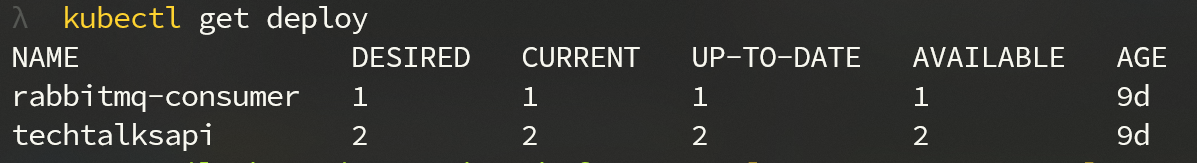
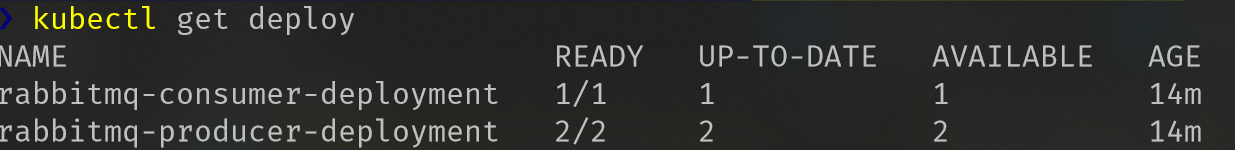
Updated README with newer images based on changes to producer and consumer

diff --git a/README.md b/README.md
@@ -133,6 +133,14 @@ Execute the `deployAutoScaler.ps1` powershell script.
 
 ```
 
+If you do not wish to run the individual PowerShell scripts, you can run one single script which will deploy all the necessary things by running the above scripts in correct order.
+
+```Powershell
+
+.\deployAll.ps1
+
+```
+
 ### 2.6 Get list of all the services deployed in the cluster
 
 We will need to know the service name for RabbitMQ to be able to do port forwarding to the RabbitMQ management UI and also the public IP assigned to the TechTalks producer service which will be used to generate the messages onto RabbitmQ queue.
@@ -147,7 +155,7 @@ kubectl get svc
 
 As we can see above, RabbitMQ service is available within the Kubernetes cluster and it exposes `4369`, `5672`, `25672` and `15672` ports. We will be using `15672` port to map to a local port.
 
-Also note the public `LoadBalancer` IP for the techtalksapi service. In this case the IP is **`13.67.52.226`**.
+Also note the public `LoadBalancer` IP for the techtalksapi service. In this case the IP is **`52.139.237.252`**.
 **Note:** This IP will be different when the services are redeployed on a different Kubernetes cluster.
 
 ### 2.7 Watch for deployments
@@ -186,33 +194,37 @@ Login to the management UI using credentials as `user` and `PASSWORD`. Remember 
 
 I am using [Postman](https://www.getpostman.com/) to submit a POST request to the API which generates 1000 messages onto a RabbitMQ queue named `hello`. You can use any other command line tool like CURL to submit a GET request.
 
-Use the `EXTERNAL-IP -13.67.52.226` with port `8080` to submit a GET request to the API. http://13.67.52.226:8080/api/TechTalks/Generate?numberOfMessages=200
+Use the `EXTERNAL-IP -52.139.237.252` with port `8080` to submit a GET request to the API. http://52.139.237.252:8080/api/TechTalks/Generate?numberOfMessages=2000
 
-Make sure to set the method to `POST` and add the header with key as `Content-Type` and value as `application/json`. Also specify the body with a random integer as shown below.
+![postman success](/images/postman-get-request.png)
 
-![postman header](/images/postman-header.png)
+Note that we are setting the number of messages to be produced by Producer as 2000 in this case. You can change the number to any other integer value.
 
-![postman body](/images/postman-body.png)
-
-After building the POST query, hit the blue `Send` button on the top right. If everything goes fine, you should receive a `200 OK` as status code.
+After building the GET query, hit the blue `Send` button on the top right. If everything goes fine, you should receive a `200 OK` as status code.
 
 ![postman success](/images/postman-success.png)
 
-The Producer will produce 1000 messages on the queue named `hello`. The consumer is configured to process `10` messages in a batch. The consumer also simulates a long running process by sleeping for `2 seconds`.
+The Producer will produce 2000 messages on the queue named `hello`. The consumer is configured to process `10` messages in a batch. The consumer also simulates a long running process by sleeping for `2 seconds`.
 
 ### 2.11 Auto-scaling in action
 
 See the number of containers for consumer grow to adjust the messages and also the drop when messages are processed.
 
-![autoscaling consumers](/images/autoscaling.png)
+![autoscaling consumers](/images/pods-and-deployments-autoscaled.png)
+
+On the left hand side of the screen you can see the pods auto scaled and on the right we see the deploymnets autoscaled progressively to 2,4,8, 16 and 30.
 
 While the messages are being processed, we can also observe the RabbitMQ management UI.
 
 ![autoscaling consumers](/images/RabbitMQ-managementUI.PNG)
 
-Our consumer processes 10 messages in a batch by prefetching them together. This can be verified by looking at the details of the consumers.
+Our consumer processes 50 messages in a batch by prefetching them together. This can be verified by looking at the details of the consumers.
 
 ![Prefetch messages](/images/rabbitMQ-prefetch.PNG)
+
+Once all the messages are processed, KEDA will scale down the pods and the deployments.
+
+![autoscaled down consumers](/images/pods-and-deployments-scaled-down.png)
 
 List Custom Resource Definition
 
@@ -222,7 +234,27 @@ kubeclt get crd
 
 ```
 
+![autoscaled down consumers](/images/KEDA-CRD.PNG)
+
 ---
+
+As part of the KEDA installation, ScaledObject and TriggerAuthentications are deployed on the Kubernetes cluster.
+
+## YouTube videos
+
+As part of my YouTube channel, I also did a multi-part series on this project. The videos published on the channel are available below :
+
+- Part 1 - Autoscaling containers with KEDA - Provision AKS cluster
+
+[![Part 1 - Autoscaling containers with KEDA - Provision AKS cluster](/Images/part1-AKS-cluster-provision.gif)](https://youtu.be/Bq2CpEcRtPw)
+
+- Part 2 - Autoscaling containers with KEDA - Deploy Application Containers
+
+[![Part 2 - Autoscaling containers with KEDA - Deploy Application Containers](/Images/part2-deploy-application-containers.png)](https://youtu.be/X8x_FdN1Fvo)
+
+- Part 3 - Autoscaling containers with KEDA - KEDA Autoscale in action
+
+[![Part 2 - Autoscaling containers with KEDA - Deploy Application Containers](/Images/part3-KEDA-install.gif)](https://youtu.be/X8x_FdN1Fvo)
 
 ## Slides
 
